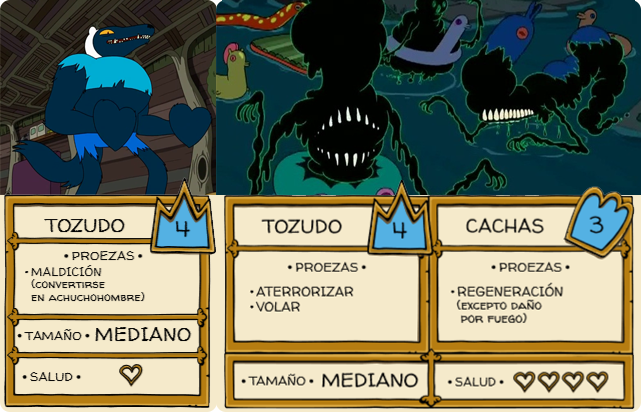
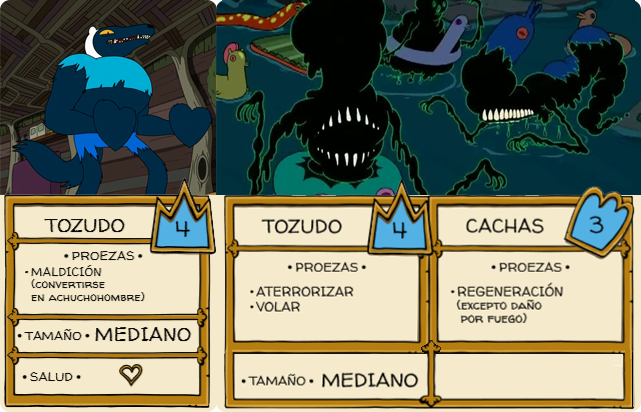
Added more/less health

Changed region(s): [[0.3432, 0.8155, 0.9984, 0.9612]]

diff --git a/Motor2D/j1Gui.cpp b/Motor2D/j1Gui.cpp
@@ -35,6 +35,8 @@ bool j1Gui::Start()
 	cross = App->tex->Load("gui/cross.png");
 	plus = App->tex->Load("gui/plus.png");
 	panel = App->tex->Load("characters/enemies_info.png");
+	health = App->tex->Load("characters/salud.png");
+	health_controlers = App->tex->Load("gui/health.png");
 
 	return true;
 }
@@ -142,7 +144,9 @@ void j1Gui::DeleteUI(UIElement * element)
 {
 	int index = elements.find(element);
 	if (index > -1)
+	{
 		elements.del(elements.At(index));
+	}
 }
 
 char * j1Gui::GetFont(uint font)
@@ -166,22 +170,31 @@ Enemy j1Gui::AddEnemy(int x, int y, uint type)
 {
 	Enemy enemy;
 
-	Animation enemy_animation;
-
-	App->gui->GetEnemy(type, enemy);
-
+		GetEnemy(type, enemy);
 	
 	enemy.texture = App->tex->Load("characters/enemies.png");
 
 
-	enemy.enemy_card = App->gui->AddButton(x, y, enemy.texture, enemy.animation, this, true);
+	enemy.enemy_card = AddButton(x, y, enemy.texture, enemy.animation, this, true);
+
+
 
 
 	SDL_Rect r = enemy.animation.GetCurrentFrame();
+	Animation more_h;
+	more_h.PushBack({ 0,0,22,22 });
+	more_h.Reset();
 
-	enemy.exit = App->gui->AddButton(r.w - 17, r.h - 17, cross, {}, this, false, false, enemy.enemy_card);
-	enemy.more = App->gui->AddButton(r.w - 17, - 17, plus, {}, this, false, false, enemy.enemy_card);
+	Animation less_h;
+	less_h.PushBack({ 22,0,22,22 });
+	less_h.Reset();
 
+	enemy.lifes = AddImage(r.w - 201, r.h - 53, health, {}, false, enemy.enemy_card);
+	enemy.exit = AddButton(r.w - 17, r.h - 17, cross, {}, this, false, false, enemy.enemy_card);
+	enemy.more = AddButton(r.w - 17, - 17, plus, {}, this, false, false, enemy.enemy_card);
+	enemy.more_health = AddButton(0, r.h-8, health_controlers, more_h, this, false, false, enemy.enemy_card);
+	enemy.less_health = AddButton(27, r.h-8, health_controlers, less_h, this, false, false, enemy.enemy_card);
+	ChangeLife(enemy);
 
 
 	return enemy;
@@ -201,6 +214,51 @@ Button * j1Gui::AddInfo(Enemy &enemy)
 
 
 
+void j1Gui::ChangeLife(Enemy & enemy)
+{
+
+	Animation zero, one, two, three, four, five, six, seven;
+	zero.PushBack({ 0,0,178,34 });
+	one.PushBack({ 0,35,178,34 });
+	two.PushBack({ 0,70,178,34 });
+	three.PushBack({ 0,105,178,34 });
+	four.PushBack({ 0,140,178,34 });
+	five.PushBack({ 179,0,178,34 });
+	six.PushBack({ 179,35,178,34 });
+	seven.PushBack({ 179,70,178,34 });
+
+	switch (enemy.life)
+	{
+	case 0:
+		enemy.lifes->anim = zero;
+		break;
+	case 1:
+		enemy.lifes->anim = one;
+		break;
+	case 2:
+		enemy.lifes->anim = two;
+		break;
+	case 3:
+		enemy.lifes->anim = three;
+		break;
+	case 4:
+		enemy.lifes->anim = four;
+		break;
+	case 5:
+		enemy.lifes->anim = five;
+		break;
+	case 6:
+		enemy.lifes->anim = six;
+		break;
+	case 7:
+		enemy.lifes->anim = seven;
+		break;
+	default:
+		break;
+	}
+	enemy.lifes->anim.Reset();
+}
+
 void j1Gui::GetEnemy(uint type, Enemy &enemy)
 {
 	switch (type)
@@ -208,10 +266,12 @@ void j1Gui::GetEnemy(uint type, Enemy &enemy)
 	case ACHUCHA_HOMBRES:
 		enemy.animation.PushBack({ 0,0,217,412 });
 		enemy.info_animation.PushBack({ 0,0,203,412 });
+		enemy.life = 1;
 		break;
 	case CHUM_GLUBS:
 		enemy.animation.PushBack({ 216,0,425,412 });
 		enemy.info_animation.PushBack({ 204,0,203,412 });
+		enemy.life = 4;
 		break;
 	default:
 		break;

diff --git a/Motor2D/Enemies.cpp b/Motor2D/Enemies.cpp
@@ -79,6 +79,10 @@ void Enemies::InGameButtons()
 				App->gui->DeleteUI(item->data.more);
 				App->gui->DeleteUI(item->data.info);
 				App->gui->DeleteUI(item->data.exit);	
+				App->gui->DeleteUI(item->data.lifes);
+				App->gui->DeleteUI(item->data.more_health);
+				App->gui->DeleteUI(item->data.less_health);
+
 			}
 			if (item->data.more->state == L_MOUSE_PRESSED)
 			{
@@ -95,7 +99,20 @@ void Enemies::InGameButtons()
 				}
 
 			}
-
+			if (item->data.less_health->state == L_MOUSE_PRESSED)
+			{
+				if (item->data.life >= 0)
+					item->data.life--;
+				App->gui->ChangeLife(item->data);
+				item->data.less_health->state = FOCUSED;
+			}
+			if (item->data.more_health->state == L_MOUSE_PRESSED)
+			{
+				if (item->data.life < 8)
+					item->data.life++;
+				App->gui->ChangeLife(item->data);
+				item->data.more_health->state = FOCUSED;
+			}
 			item = item->next;
 		}
 	}

diff --git a/Motor2D/j1Gui.h b/Motor2D/j1Gui.h
@@ -46,12 +46,17 @@ struct Enemy
 	Animation info_animation;
 
 
-	Button* enemy_card;
-	Button* info;
-	Button* exit;
-	Button* more;
+	Button* enemy_card = nullptr;
+	Button* info = nullptr;
+	Button* exit = nullptr;
+	Button* more = nullptr;
+	Button* more_health;
+	Button* less_health;
+
+	Image* lifes = nullptr;
 
 	bool shown = false;
+	int life = 0;
 };
 
 class j1Gui : public j1Module
@@ -97,6 +102,9 @@ public:
 	bool debug = false;
 
 
+	void ChangeLife(Enemy &enemy);
+
+
 	void GetEnemy(uint type, Enemy &enemy);
 
 	Enemy AddEnemy(int x, int y, uint type);
@@ -105,9 +113,10 @@ public:
 
 private:
 	SDL_Texture* plus = nullptr;
+	SDL_Texture* health_controlers = nullptr;
 	SDL_Texture* cross = nullptr;
 	SDL_Texture* panel = nullptr;
-
+	SDL_Texture* health = nullptr;
 
 
 };
